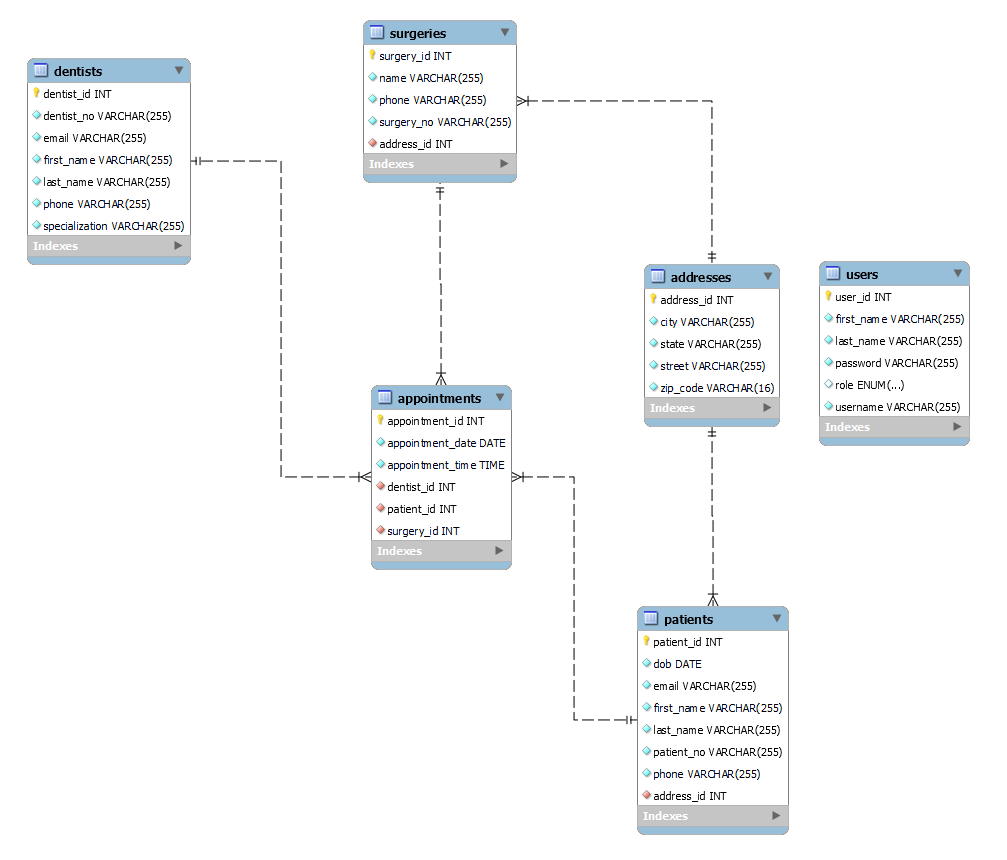
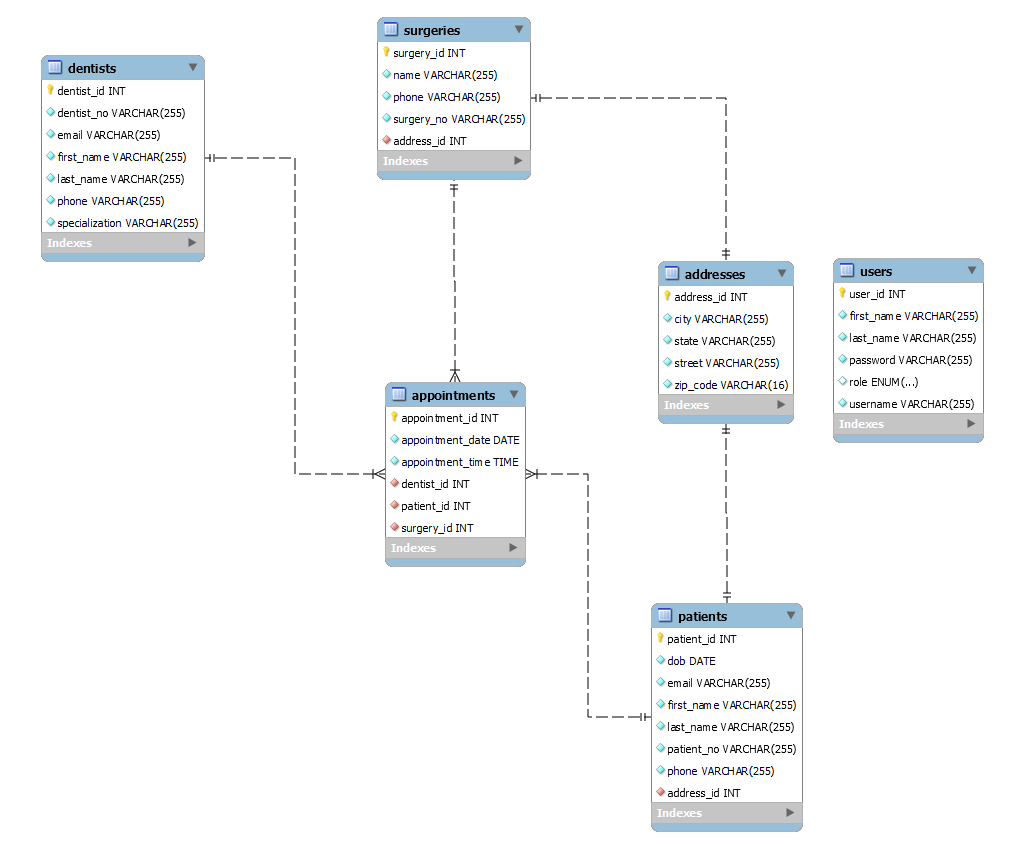
Final changes

diff --git a/src/test/java/edu/miu/cs/cs489/integration/PatientControllerIntegrationTests.java b/src/test/java/edu/miu/cs/cs489/integration/PatientControllerIntegrationTests.java
@@ -1,0 +1,173 @@
+package edu.miu.cs.cs489.integration;
+
+import edu.miu.cs.cs489.surgeries.dto.request.AddressRequestDto;
+import edu.miu.cs.cs489.surgeries.dto.request.PatientRequestDto;
+import edu.miu.cs.cs489.surgeries.model.Role;
+import edu.miu.cs.cs489.surgeries.model.User;
+import edu.miu.cs.cs489.surgeries.repository.PatientRepository;
+import edu.miu.cs.cs489.surgeries.repository.UserRepository;
+
+import org.junit.jupiter.api.*;
+import org.springframework.beans.factory.annotation.Autowired;
+import org.springframework.boot.test.autoconfigure.web.servlet.AutoConfigureMockMvc;
+import org.springframework.boot.test.context.SpringBootTest;
+import org.springframework.http.HttpHeaders;
+import org.springframework.http.MediaType;
+import org.springframework.security.crypto.password.PasswordEncoder;
+import org.springframework.test.context.ActiveProfiles;
+import org.springframework.test.web.servlet.MockMvc;
+import org.springframework.test.web.servlet.MvcResult;
+
+import com.fasterxml.jackson.databind.ObjectMapper;
+
+import static org.springframework.test.web.servlet.request.MockMvcRequestBuilders.*;
+import static org.springframework.test.web.servlet.result.MockMvcResultMatchers.*;
+
+import java.time.LocalDate;
+
+@SpringBootTest
+@AutoConfigureMockMvc
+@ActiveProfiles("test")
+public class PatientControllerIntegrationTests {
+
+    @Autowired
+    private MockMvc mockMvc;
+    @Autowired
+    private ObjectMapper objectMapper;
+    @Autowired
+    private UserRepository userRepository;
+    @Autowired
+    private PatientRepository patientRepository;
+    @Autowired
+    private PasswordEncoder passwordEncoder;
+
+    private final AddressRequestDto addressRequestDto = new AddressRequestDto("1000 N", "Fairfield", "Iowa", "52556");
+    private final PatientRequestDto patientRequestDto = new PatientRequestDto(
+            "P123", "John", "Doe", "JD@yahoo.com", "1234567890", LocalDate.of(1990, 1, 1), addressRequestDto);
+
+    @BeforeEach
+    void setup() {
+        User adminUser = new User("Admin", "User", "admin", passwordEncoder.encode("admin"), Role.ADMIN);
+        userRepository.save(adminUser);
+    }
+
+    @AfterEach
+    void tearDown() {
+        patientRepository.deleteAll();
+        userRepository.deleteAll();
+    }
+
+    private String obtainJwtToken(String username, String password) throws Exception {
+        String loginRequest = String.format("{\"username\":\"%s\",\"password\":\"%s\"}", username, password);
+        MvcResult result = mockMvc.perform(post("/api/v1/auth/authenticate")
+                        .contentType(MediaType.APPLICATION_JSON)
+                        .content(loginRequest))
+                .andExpect(status().isOk())
+                .andReturn();
+        String responseJson = result.getResponse().getContentAsString();
+        return objectMapper.readTree(responseJson).get("token").asText();
+    }
+
+    @Test
+    @DisplayName("POST /api/v1/patients - Create Patient (Authenticated)")
+    void createPatient_ShouldCreatePatient_WhenAuthenticated() throws Exception {
+        String token = obtainJwtToken("admin", "admin");
+
+        mockMvc.perform(post("/api/v1/patients")
+                        .header(HttpHeaders.AUTHORIZATION, "Bearer " + token)
+                        .contentType(MediaType.APPLICATION_JSON)
+                        .content(objectMapper.writeValueAsString(patientRequestDto)))
+                .andExpect(status().isCreated())
+                .andExpect(jsonPath("$.patientNo").value("P123"))
+                .andExpect(jsonPath("$.firstName").value("John"));
+    }
+
+    @Test
+    @DisplayName("GET /api/v1/patients - Get All Patients (Authenticated)")
+    void getAllPatients_ShouldReturnPatients_WhenAuthenticated() throws Exception {
+        String token = obtainJwtToken("admin", "admin");
+
+        mockMvc.perform(post("/api/v1/patients")
+                        .header(HttpHeaders.AUTHORIZATION, "Bearer " + token)
+                        .contentType(MediaType.APPLICATION_JSON)
+                        .content(objectMapper.writeValueAsString(patientRequestDto)))
+                .andExpect(status().isCreated());
+
+        mockMvc.perform(get("/api/v1/patients")
+                        .header(HttpHeaders.AUTHORIZATION, "Bearer " + token))
+                .andExpect(status().isOk())
+                .andExpect(jsonPath("$").isArray())
+                .andExpect(jsonPath("$[0].patientNo").value("P123"));
+    }
+
+    @Test
+    @DisplayName("GET /api/v1/patients/{patientId} - Get Patient by ID (Authenticated)")
+    void getPatientById_ShouldReturnPatient_WhenAuthenticated() throws Exception {
+        String token = obtainJwtToken("admin", "admin");
+
+        MvcResult result = mockMvc.perform(post("/api/v1/patients")
+                        .header(HttpHeaders.AUTHORIZATION, "Bearer " + token)
+                        .contentType(MediaType.APPLICATION_JSON)
+                        .content(objectMapper.writeValueAsString(patientRequestDto)))
+                .andExpect(status().isCreated())
+                .andReturn();
+
+        int patientId = objectMapper.readTree(result.getResponse().getContentAsString()).get("patientId").asInt();
+
+        mockMvc.perform(get("/api/v1/patients/" + patientId)
+                        .header(HttpHeaders.AUTHORIZATION, "Bearer " + token))
+                .andExpect(status().isOk())
+                .andExpect(jsonPath("$.patientNo").value("P123"))
+                .andExpect(jsonPath("$.firstName").value("John"));
+    }
+
+    @Test
+    @DisplayName("PUT /api/v1/patients/{id} - Update Patient (Authenticated)")
+    void updatePatient_ShouldUpdatePatient_WhenAuthenticated() throws Exception {
+        String token = obtainJwtToken("admin", "admin");
+
+        MvcResult result = mockMvc.perform(post("/api/v1/patients")
+                        .header(HttpHeaders.AUTHORIZATION, "Bearer " + token)
+                        .contentType(MediaType.APPLICATION_JSON)
+                        .content(objectMapper.writeValueAsString(patientRequestDto)))
+                .andExpect(status().isCreated())
+                .andReturn();
+
+        int patientId = objectMapper.readTree(result.getResponse().getContentAsString()).get("patientId").asInt();
+
+        PatientRequestDto updatedPatientDto = new PatientRequestDto(
+                "P123", "Updated", "Name", "updated@yahoo.com", "1112223333",
+                LocalDate.of(1985, 5, 15), addressRequestDto);
+
+        mockMvc.perform(put("/api/v1/patients/" + patientId)
+                        .header(HttpHeaders.AUTHORIZATION, "Bearer " + token)
+                        .contentType(MediaType.APPLICATION_JSON)
+                        .content(objectMapper.writeValueAsString(updatedPatientDto)))
+                .andExpect(status().isOk())
+                .andExpect(jsonPath("$.firstName").value("Updated"))
+                .andExpect(jsonPath("$.email").value("updated@yahoo.com"));
+    }
+
+    @Test
+    @DisplayName("DELETE /api/v1/patients/{id} - Delete Patient (Authenticated)")
+    void deletePatient_ShouldDeletePatient_WhenAuthenticated() throws Exception {
+        String token = obtainJwtToken("admin", "admin");
+
+        MvcResult result = mockMvc.perform(post("/api/v1/patients")
+                        .header(HttpHeaders.AUTHORIZATION, "Bearer " + token)
+                        .contentType(MediaType.APPLICATION_JSON)
+                        .content(objectMapper.writeValueAsString(patientRequestDto)))
+                .andExpect(status().isCreated())
+                .andReturn();
+
+        int patientId = objectMapper.readTree(result.getResponse().getContentAsString()).get("patientId").asInt();
+
+        mockMvc.perform(delete("/api/v1/patients/" + patientId)
+                        .header(HttpHeaders.AUTHORIZATION, "Bearer " + token))
+                .andExpect(status().isNoContent());
+
+        mockMvc.perform(get("/api/v1/patients/" + patientId)
+                        .header(HttpHeaders.AUTHORIZATION, "Bearer " + token))
+                .andExpect(status().isNotFound());
+    }
+}

diff --git a/src/test/java/edu/miu/cs/cs489/controller/PatientControllerTests.java b/src/test/java/edu/miu/cs/cs489/controller/PatientControllerTests.java
@@ -151,7 +151,7 @@ public class PatientControllerTests {
 
         mockMvc.perform(MockMvcRequestBuilders.delete("/api/v1/patients/1")
                 .contentType("application/json"))
-                .andExpect(MockMvcResultMatchers.status().isOk());
+                .andExpect(MockMvcResultMatchers.status().isNoContent());
     }
 
     @Test

diff --git a/src/main/java/edu/miu/cs/cs489/surgeries/controller/PatientController.java b/src/main/java/edu/miu/cs/cs489/surgeries/controller/PatientController.java
@@ -65,7 +65,7 @@ public class PatientController {
     public ResponseEntity<?> deletePatientById(@PathVariable Integer patientId) {
         patientService.deletePatientById(patientId);
 
-        return new ResponseEntity<>(HttpStatus.OK);
+        return new ResponseEntity<>(HttpStatus.NO_CONTENT);
     }
 
 

diff --git a/src/main/java/edu/miu/cs/cs489/surgeries/service/impl/DentistServiceImpl.java b/src/main/java/edu/miu/cs/cs489/surgeries/service/impl/DentistServiceImpl.java
@@ -103,5 +103,7 @@ public class DentistServiceImpl implements DentistService {
 
         if (dentist.isPresent())
             dentistRepository.delete(dentist.get());
+        else
+            throw new NotFoundException("Dentist with id " + dentistId + " not found");
     }
 }

diff --git a/src/main/java/edu/miu/cs/cs489/surgeries/service/impl/PatientServiceImpl.java b/src/main/java/edu/miu/cs/cs489/surgeries/service/impl/PatientServiceImpl.java
@@ -161,5 +161,7 @@ public class PatientServiceImpl implements PatientService {
         if (patient.isPresent()) {
             patientRepository.delete(patient.get());
         }
+
+        throw new NotFoundException("Patient with ID " + patientId + " does not exist");
     }
 }

diff --git a/README.md b/README.md
@@ -1,14 +1,14 @@
-# Surgeries Management System
+# Dental Surgeries Management System
 
-A Spring Boot-based web application for managing surgical procedures and related operations.
+A Spring Boot-based web application for managing a network of Dental Surgeries and related operations.
 
 ## Project Overview
 
-This project is a comprehensive surgical management system built with Spring Boot, providing a robust backend for handling surgical procedures, patient information, and related operations.
+This project is a comprehensive dental surgeries management system built with Spring Boot, providing a robust backend for handling dental procedures, patient information, and related operations.
 
 ## Technologies Used
 
-- **Java 24**
+- **Java 21**
 - **Spring Boot 3.4.4**
 - **Spring Security**
 - **Spring Data JPA**
@@ -50,9 +50,17 @@ This project is a comprehensive surgical management system built with Spring Boo
 - Hospital administrator should be able to manage patients, dentists, surgeries, and appointments data
 - Dentists are only allowed to view the data
 
+## UML
+![UML.PNG](screenshots/UML.PNG)
+
+## Database Schema
+
+The project includes a MySQL Workbench model file (`surgeries_db_schema.mwb`) that defines the database structure.
+![ER Diagram.PNG](screenshots/ER%20Diagram.PNG)
+
 ## Prerequisites
 
-- Java 24 or higher
+- Java 21
 - Maven 3.x
 - MySQL Server
 - Your favorite IDE (IntelliJ IDEA recommended)
@@ -78,11 +86,6 @@ This project is a comprehensive surgical management system built with Spring Boo
    mvn spring-boot:run
    ```
 
-
-## Database Schema
-
-The project includes a MySQL Workbench model file (`surgeries_db_schema.mwb`) that defines the database structure.
-
 ## Security
 
 The application implements Spring Security with JWT-based authentication for secure access to the API endpoints.
@@ -93,3 +96,28 @@ The project includes comprehensive testing support with:
 - JUnit 5
 - Spring Test
 - H2 Database for testing
+
+## Dockerization
+
+This application is fully containerized using Docker, allowing easy deployment and consistent environment setup across systems. It includes two services: a MySQL database and the Spring Boot-based web application.
+
+### Running the Application
+
+#### 1. Update Image Name
+- The `docker-compose.yml` file references the image `rbadawy/surgeries:1.0.1`, which you'll need to replace with your own Docker Hub username
+
+#### 2. Build the Docker Image
+- In the terminal, run this command <pre> <code markdown> ```docker build -t your-dockerhub-username/surgeries:1.0.1 .``` </code> </pre>
+
+#### 3. Push the Image to Docker Hub
+- Login to Docker Hub <pre> <code markdown> ```docker login``` </code> </pre>
+- Push the image docker <pre> <code markdown> ```push your-dockerhub-username/surgeries:1.0.1``` </code> </pre>
+
+#### 4. Start the application
+- Run the following command to start both the MySQL and web application containers <pre> <code markdown> ```docker-compose up``` </code> </pre>
+
+#### 5. Start testing the application using postman
+
+## Azure Deployment
+This application is deployed on azure including CI/CD feature and it can be tested through postman with the URL `https://surgeriesappr-atdqhqhqbqhsgkew.centralus-01.azurewebsites.net/api/vi`
+
